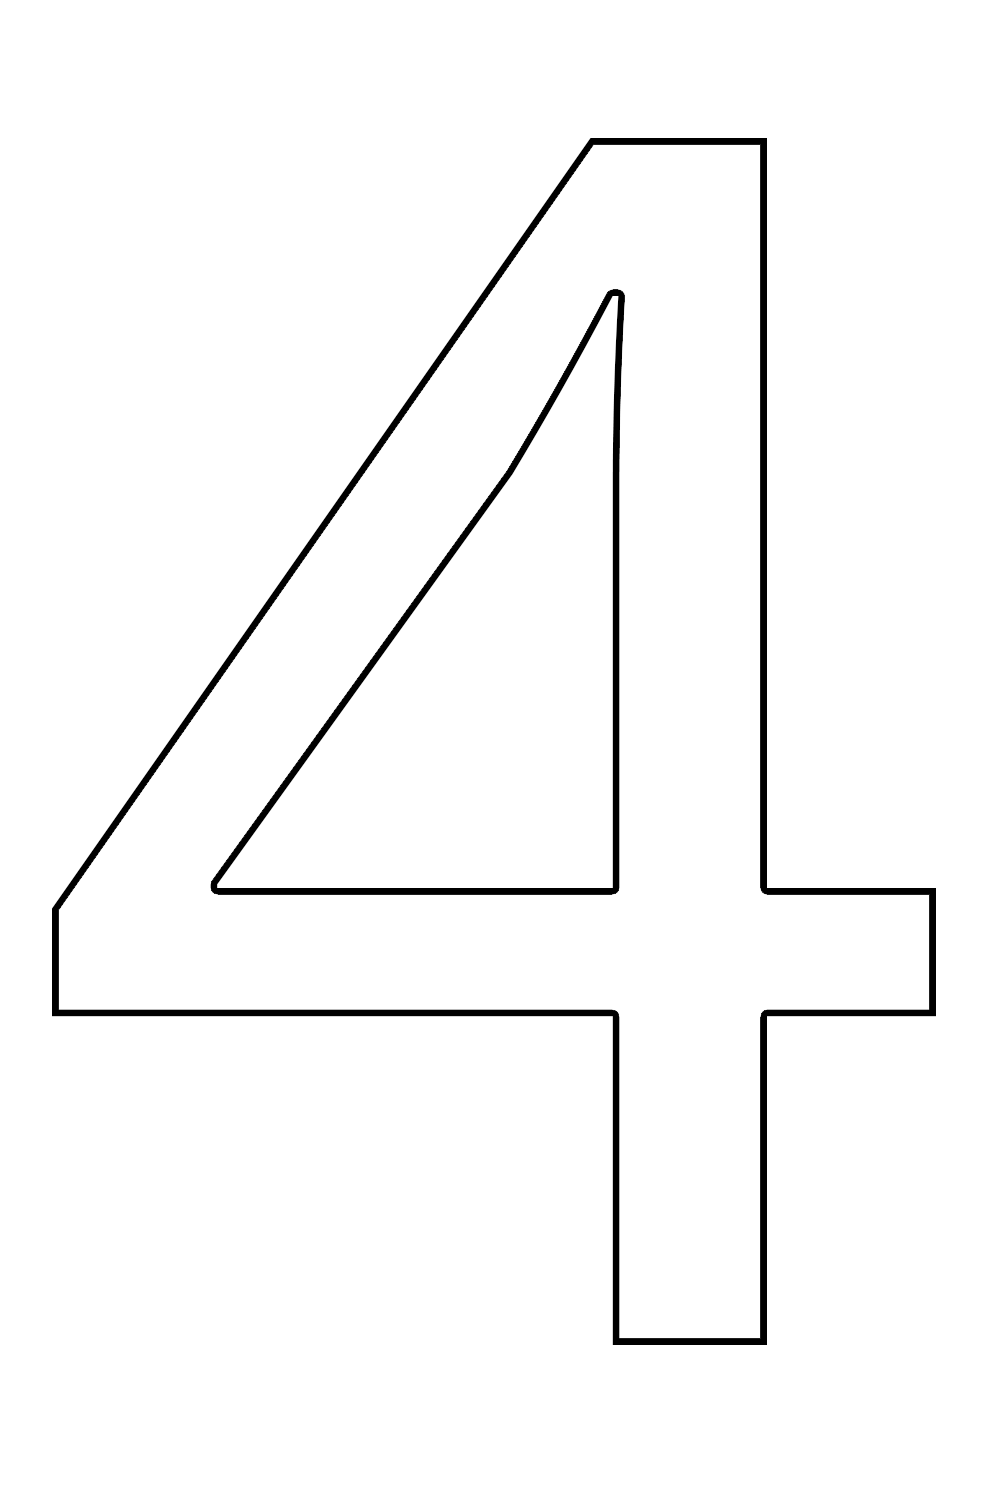
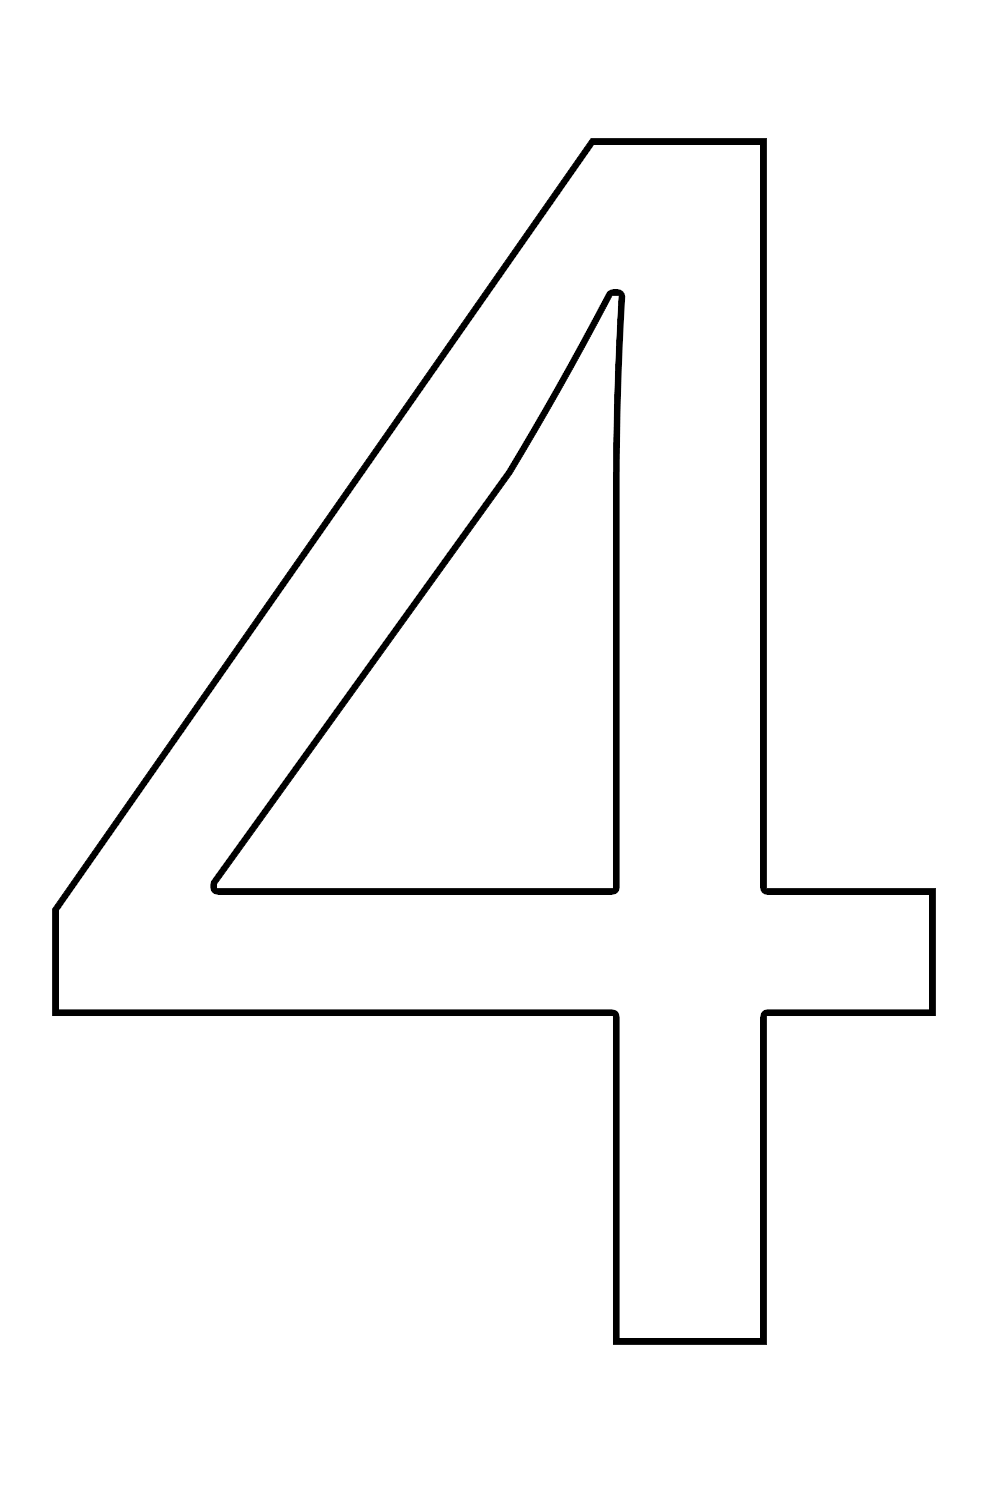
Added optional inside paint test

diff --git a/app/test/page.js b/app/test/page.js
@@ -1,0 +1,20 @@
+
+import Canvas2 from "../components/Canvas2";
+import Container from "../components/Container";
+import Flex from "../components/Flex";
+import Toolbar from "../components/Toolbar";
+import { ColorPickerProvider } from "../context/ColorPickerContext";
+import { PaintToolProvider } from "../context/PaintToolContext";
+
+export default function Test() {
+  return (
+    <Container>
+      <PaintToolProvider>
+        <ColorPickerProvider>
+          <Toolbar />
+          <Canvas2/>
+        </ColorPickerProvider>
+      </PaintToolProvider>
+    </Container>
+  );
+}